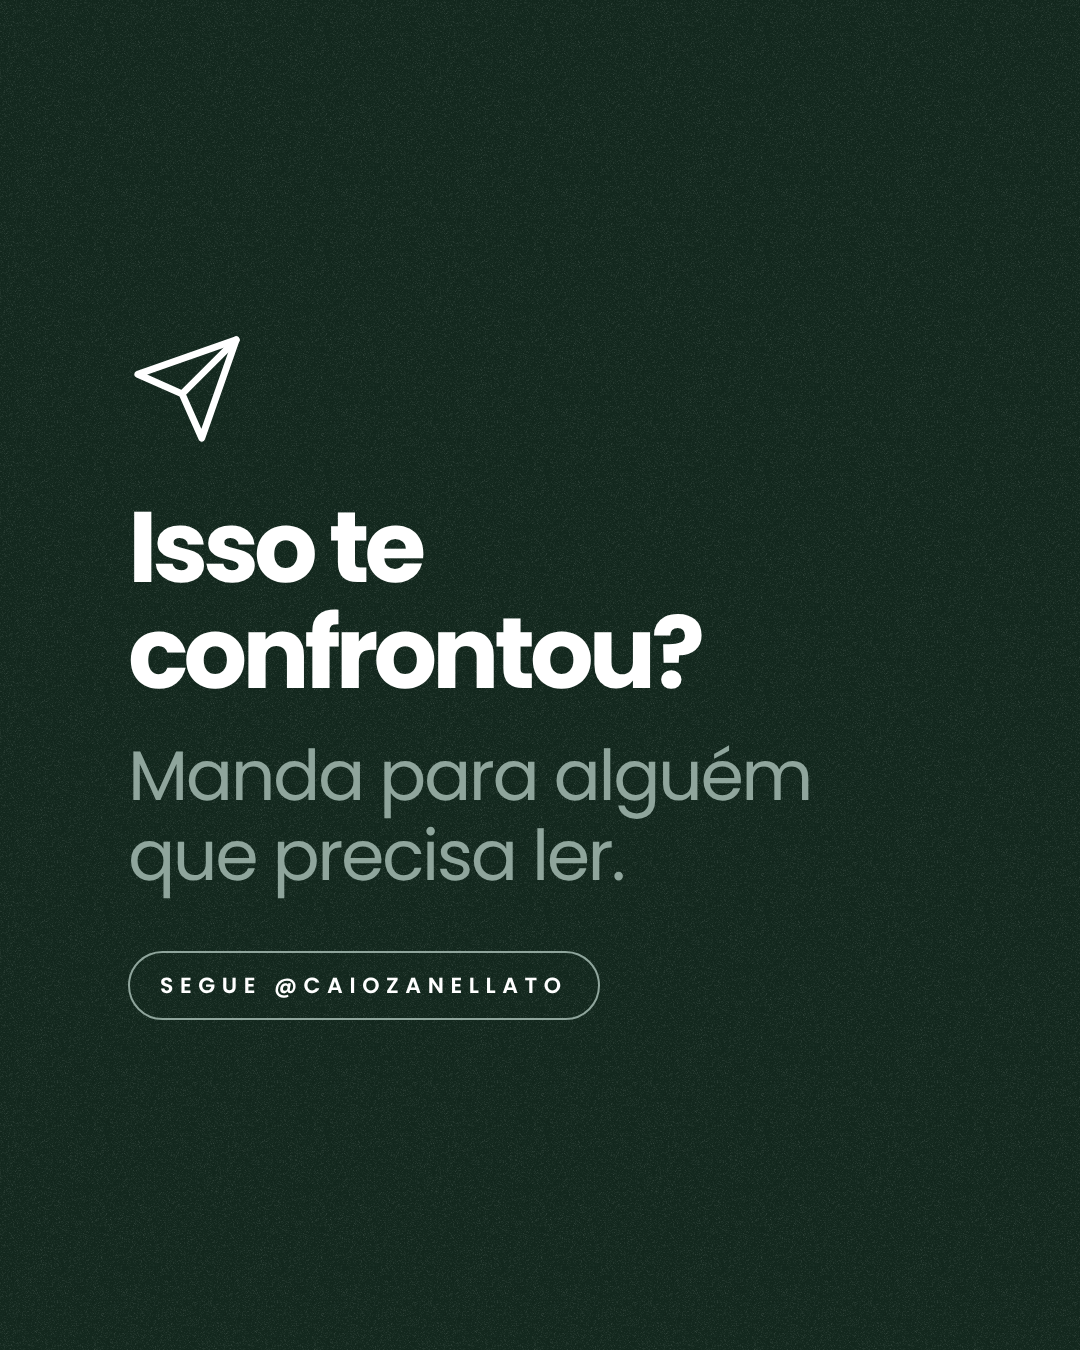
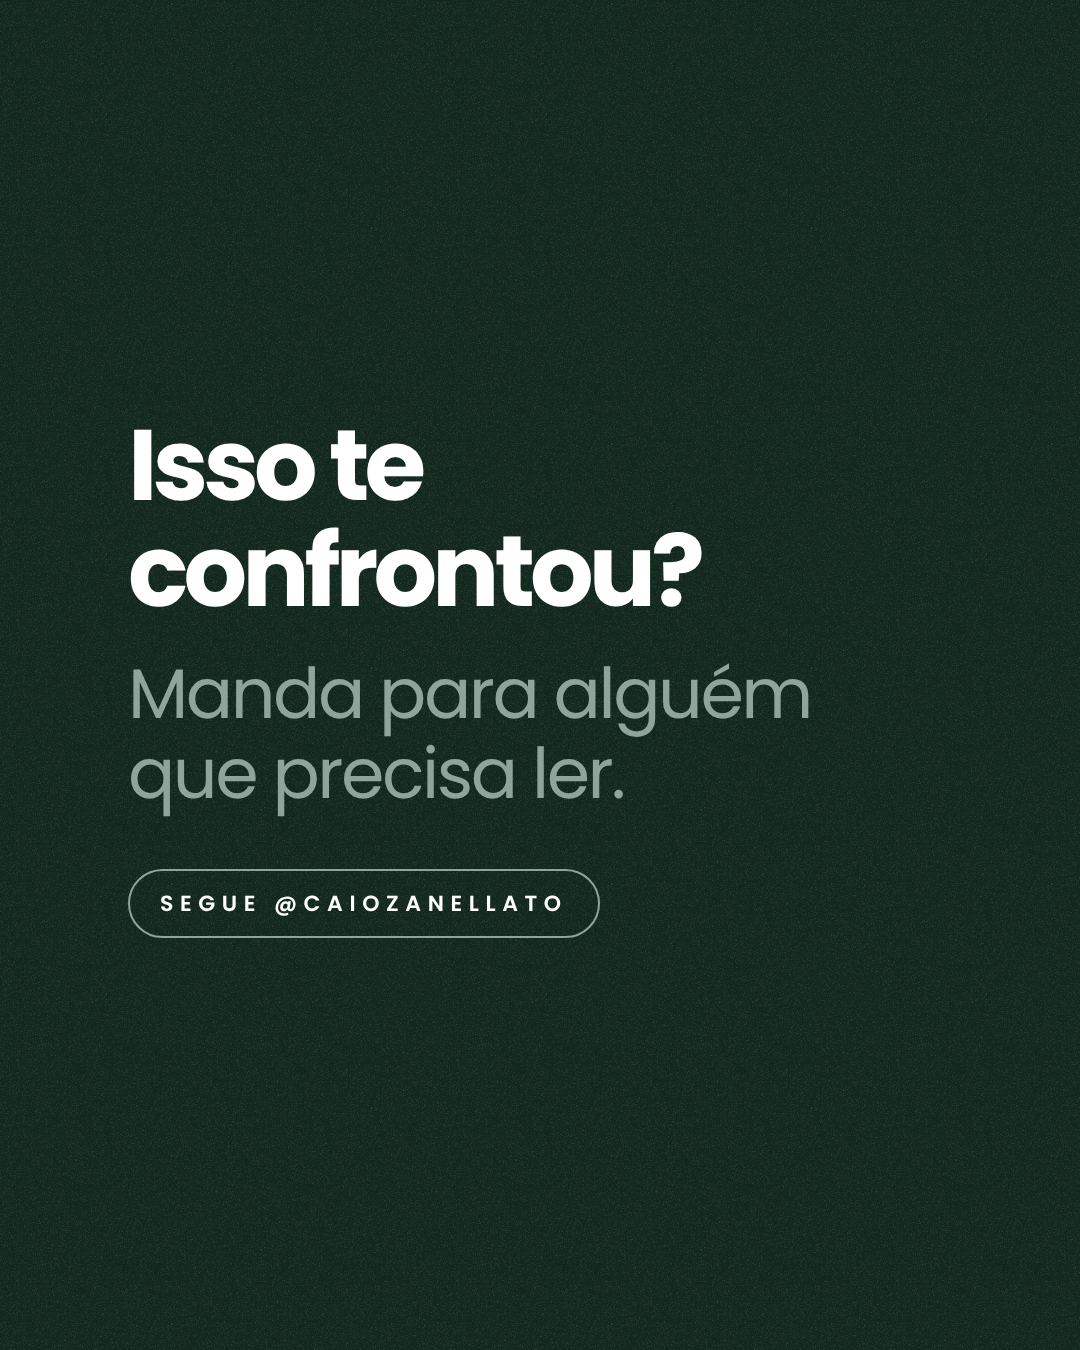
CTA do manifesto sem o ícone de enviar
Claude-Session: https://claude.ai/code/session_01CR2zLXebwu2nvAjBiSDjK9

diff --git a/carrossel/index.html b/carrossel/index.html
@@ -420,7 +420,7 @@ function renderSlide(s, i, total){
   if (s.tipo === "manifesto" && s.estilo === "cta"){
     return `<div class="slide paper ${tema}" style="${acc}"><div class="body flow man ctam">
       <div class="spacer"></div>
-      <svg class="plane" viewBox="0 0 24 24"><path d="M22 2 11 13"/><path d="M22 2 15 22l-4-9-9-4z"/></svg>
+      ${s.icone?`<svg class="plane" viewBox="0 0 24 24"><path d="M22 2 11 13"/><path d="M22 2 15 22l-4-9-9-4z"/></svg>`:""}
       <div class="m1">${fmt(s.linha1)}</div><div class="m2">${fmt(s.linha2)}</div>
       <div class="chandle">${fmt(s.linha3||"Segue {handle}")}</div>
       <div class="spacer"></div>

diff --git a/.claude/skills/carrossel/SKILL.md b/.claude/skills/carrossel/SKILL.md
@@ -48,7 +48,7 @@ Objetivo: máxima qualidade com o mínimo de tokens. **Não leia** `index.html`,
 | `cartoes` | título A \| texto A (✗) \| título B \| texto B (✓) |
 | `troca` | você dá \| valor \| você recebe \| valor |
 
-**Estilos especiais do manifesto** (`"estilo"`): `versiculo` (Instrument Serif itálico + aspas grandes + referência em caixa alta; `linha1` texto, `linha2` referência) · `paralelo` (`a1`/`a2` e `b1`/`b2`: palavra gigante em Anton + frase, separados por traço à mão) · `cta` (ícone de enviar, `linha1` pergunta, `linha2` pedido, `linha3` @ em etiqueta).
+**Estilos especiais do manifesto** (`"estilo"`): `versiculo` (Instrument Serif itálico + aspas grandes + referência em caixa alta; `linha1` texto, `linha2` referência) · `paralelo` (`a1`/`a2` e `b1`/`b2`: palavra gigante em Anton + frase, separados por traço à mão) · `cta` (sem ícone por padrão — `"icone": true` liga o aviãozinho; `linha1` pergunta, `linha2` pedido, `linha3` @ em etiqueta).
 
 **Cores do manifesto:** monocromático (branco/preto + cinza) para o texto; **verde só no traço do destaque** (`{{palavra}}` mantém a cor do texto; só o sublinhado à mão é verde `#12965A`, no fundo preto `#3FD18A`). Slides escuros do manifesto usam o fundo verde (`"tema":"escuro"`); `"preto"` existe mas o usuário prefere o verde. Handle: **@caiozanellato**.
 
